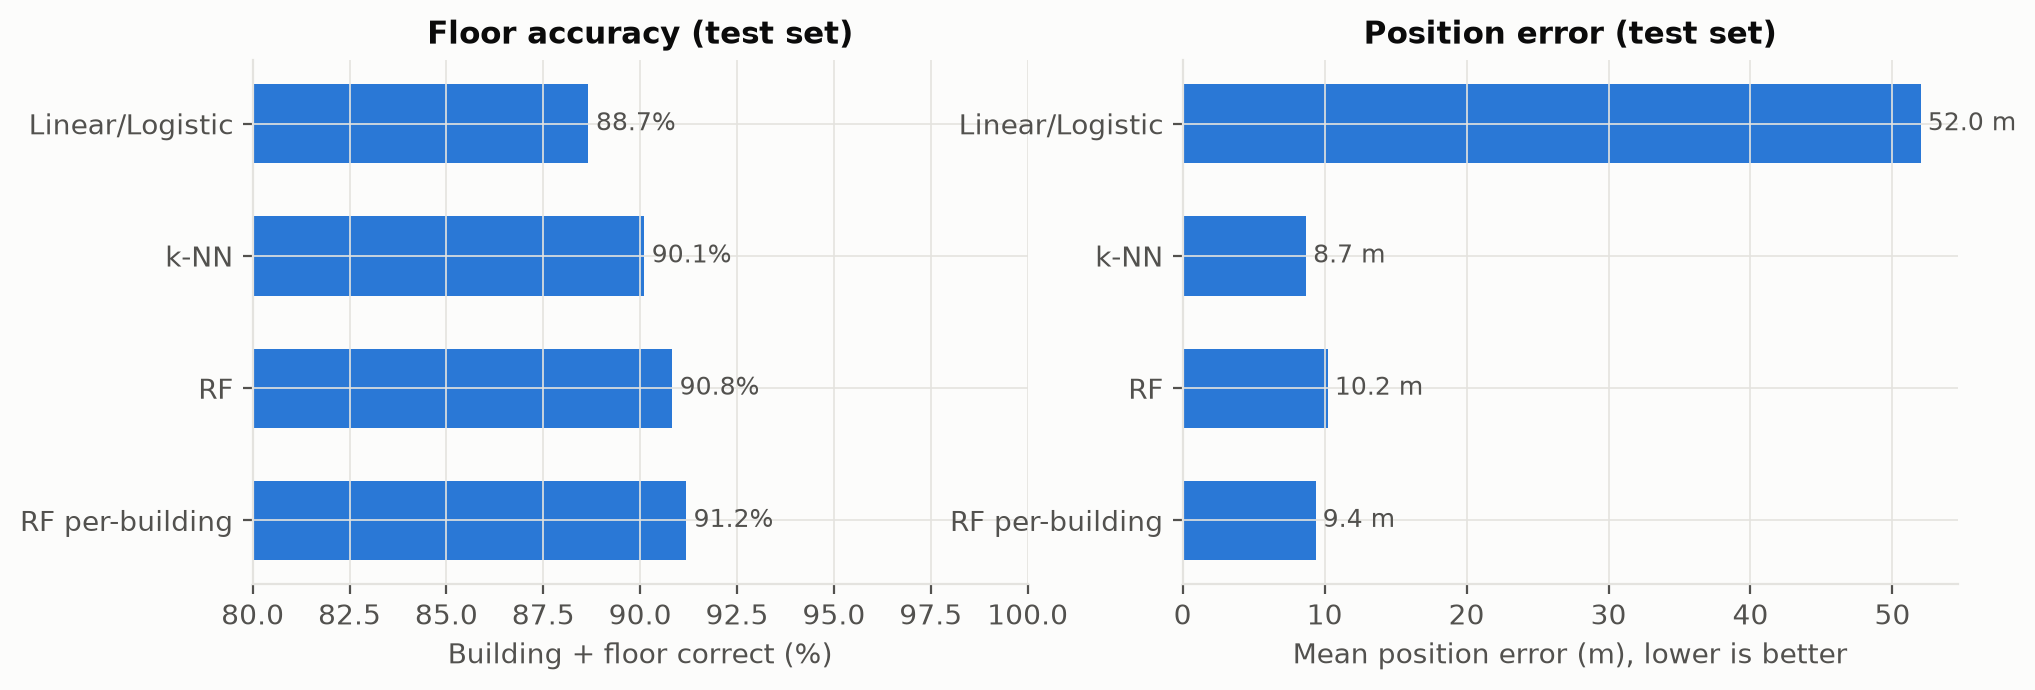
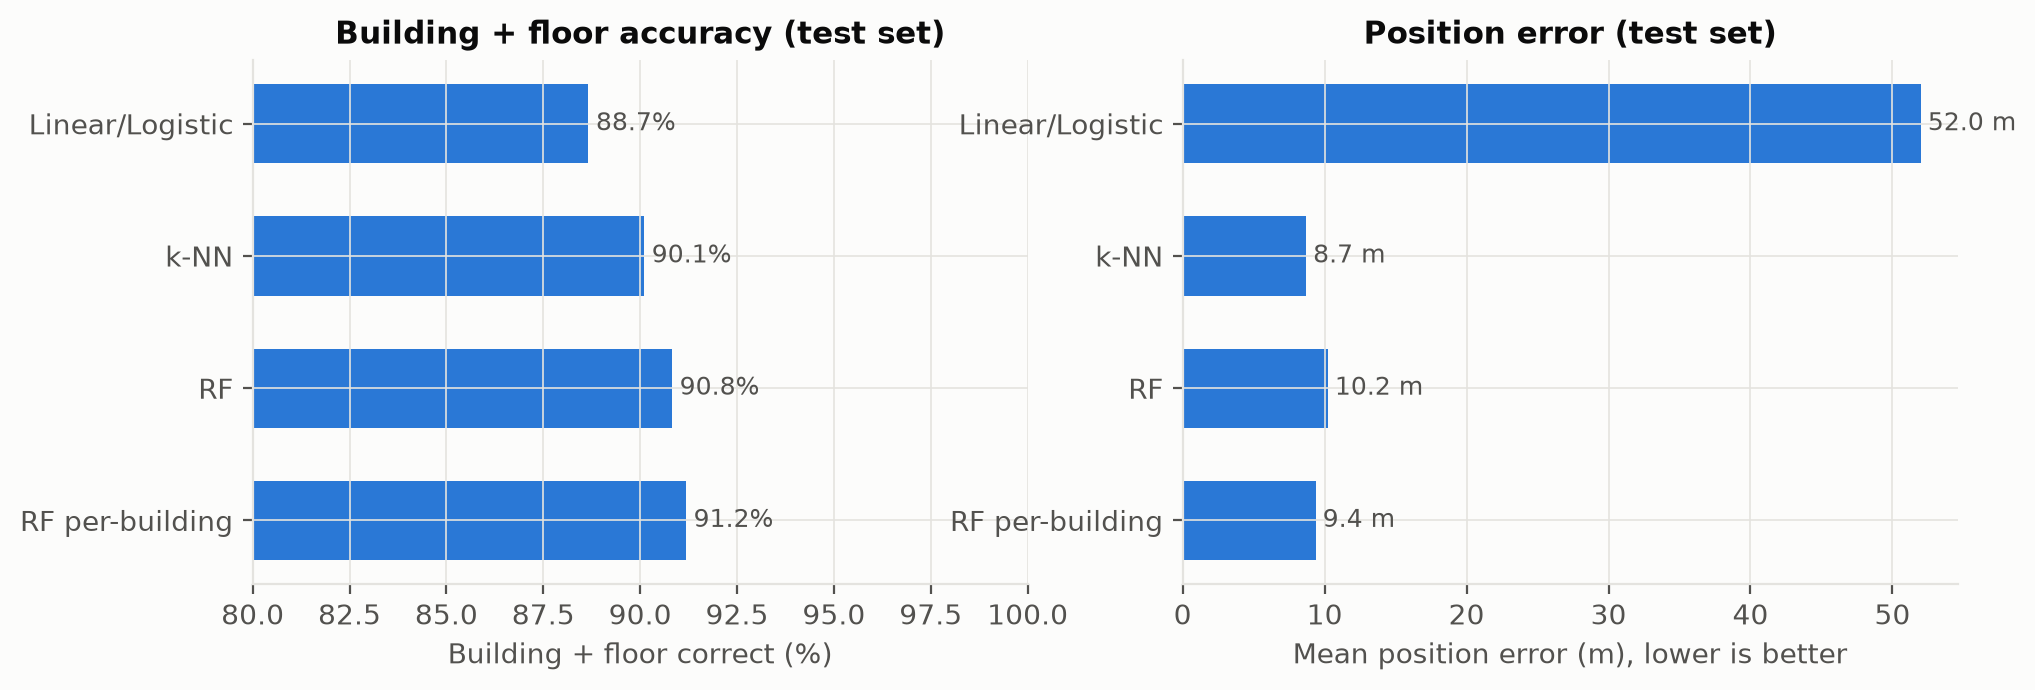
Address review round 1: correct the results notes against the figures, fix the comparison chart title
The left panel of the comparison chart plots building and floor correct
together, so it is titled that way now, in the Phase 1 script too, and both
figures are redrawn from the result files.

Changed region(s): [[0.1548, 0.0304, 0.4644, 0.0913]]

diff --git a/scripts/run_dl_analysis.py b/scripts/run_dl_analysis.py
@@ -111,7 +111,7 @@ for i, v in enumerate(cmp.building_floor_acc * 100):
 axes[0].set_xlim(80, 100)
 axes[0].set_xlabel("Building + floor correct (%)")
 axes[0].invert_yaxis()
-axes[0].set_title("Floor accuracy (test set)")
+axes[0].set_title("Building + floor accuracy (test set)")
 axes[1].barh(labels, cmp.mean_error_m, color=SERIES[0], height=0.6)
 for i, v in enumerate(cmp.mean_error_m):
     axes[1].text(v + 0.6, i, f"{v:.1f} m", va="center", color=INK_2, fontsize=9)

diff --git a/scripts/run_experiments.py b/scripts/run_experiments.py
@@ -180,7 +180,7 @@ for i, v in enumerate(f.building_floor_acc * 100):
 axes[0].set_xlim(80, 100)
 axes[0].set_xlabel("Building + floor correct (%)")
 axes[0].invert_yaxis()
-axes[0].set_title("Floor accuracy (test set)")
+axes[0].set_title("Building + floor accuracy (test set)")
 axes[1].barh(labels, f.mean_error_m, color=SERIES[0], height=0.6)
 for i, v in enumerate(f.mean_error_m):
     axes[1].text(v + 0.5, i, f"{v:.1f} m", va="center", color=INK_2, fontsize=9)

diff --git a/docs/dl_results.md b/docs/dl_results.md
@@ -14,7 +14,7 @@ The table below is from `results/aml_vs_dl.csv` and `results/dl_test_metrics.csv
 | Random Forest (per-building) | 0.998 | 0.913 | 6.19 | 5.77 | 9.37 | 7.07 | 23.31 |
 | Multitask MLP | 1.000 | 0.923 | 5.99 | 5.12 | 8.66 | 6.88 | 20.77 |
 
-The network reaches 100% building accuracy, matching Linear/Logistic and improving on the two forests (99.8%). Floor accuracy is 92.3%, which is the best of all five models; the nearest competitor is RF per-building at 91.3%. Mean position error is 8.66 m. That is better than both forests (10.22 m and 9.37 m) and almost equal to k-NN (8.69 m). The median and p95 both improve: median goes from 7.07 m (best Phase 1) to 6.88 m, and p95 drops from 23.31 m to 20.77 m. The one place the network does not stand out is the tight race with k-NN on mean error; the gap is 0.03 m, which is smaller than the variation between runs.
+The network reaches 100% building accuracy, matching Linear/Logistic and improving on the two forests (99.8%). Floor accuracy is 92.3%, which is the best of all five models; the nearest competitor is RF per-building at 91.3%. Mean position error is 8.66 m. That is better than both forests (10.22 m and 9.37 m) and almost equal to k-NN (8.69 m). Against the forests, the median and p95 both improve: median 7.07 m to 6.88 m, p95 23.31 m to 20.77 m. Against k-NN the picture is mixed: k-NN keeps the best median of all five models (5.35 m against 6.88 m) and the lower MAE in longitude (5.80 m against 5.99 m), while the network has the lower MAE in latitude and the much smaller tail (p95 20.77 m against 26.99 m). The 0.03 m gap in mean error is a tie under the project rule (differences under 0.1 m or one percentage point are a tie, see `docs/dl_architecture.md`).
 
 ## 2. Floor confusion matrices
 
@@ -46,7 +46,7 @@ F2  [   0    4  161    0 ]
 F3  [   0    0    5   80 ]
 ```
 
-Building 0 is well-separated in both models. The network is slightly weaker here (95.9% vs 97.6%), with a few more floor 0 to floor 1 errors (5 vs 1) and floor 3 to floor 2 errors (5 vs 2).
+Building 0 is well-separated in both models. The network is slightly weaker here (95.9% vs 97.6%), with a few more true floor 1 scans predicted as floor 0 (5 vs 1) and floor 3 predicted as floor 2 (5 vs 2).
 
 ### Building 1
 
@@ -74,7 +74,7 @@ F2  [   0    1   83    3 ]
 F3  [   0    0    3   44 ]
 ```
 
-Building 1 was Phase 1's weak spot at 79.8%, and the single biggest error was 43 scans on true floor 1 predicted as floor 2. The network improves building 1 accuracy to 84.7%. That same cell drops from 43 to 29 misclassifications. Floor 0 recognition also improves (22 to 23 correct). The improvement is real: Building 1 is the one place the network makes a clear gain over the forest.
+Building 1 was Phase 1's weak spot at 79.8%, and the single biggest error was 43 scans on true floor 1 predicted as floor 2. The network improves building 1 accuracy to 84.7%. That same cell drops from 43 to 29 misclassifications. Floor 0 recognition also improves (22 to 23 correct). This is the largest gain the network makes over the forest.
 
 ### Building 2
 
@@ -136,19 +136,19 @@ From `results/dl_breakdown_phone.csv` and `results/breakdown_phone_rf.csv`.
 | 20 | 213 | 13.24 | 11.61 | 0.892 | 0.892 |
 | 21 | 60 | 12.29 | 10.49 | 0.967 | 0.967 |
 
-The best phone is phone 9 (MLP 6.65 m, RF 6.23 m) and the worst is phone 14 (MLP 15.19 m, RF 16.32 m). Phone 14 is hard for both models; the network does slightly better there. Phone 20 is the second-hardest and the network closes that gap too (13.24 m to 11.61 m). The network underperforms the forest on phones 2 (10.13 vs 9.77 m) and 5 (10.40 vs 8.94 m). Phone 5 has only 17 test scans, so this may be noise. Overall the spread across phones (6.65 m to 15.19 m) is similar to Phase 1 (6.23 m to 16.32 m), so the network is not noticeably more or less sensitive to the phone model than the forest is.
+The best phone is phone 9 (MLP 6.66 m, RF 6.23 m) and the worst is phone 14 (MLP 15.19 m, RF 16.32 m). Phone 14 is hard for both models; the network does slightly better there. Phone 20 is the second-hardest and the network closes that gap too (13.24 m to 11.61 m). The network is behind the forest on five phones: 2 (10.13 vs 9.77 m), 4 (7.27 vs 7.18 m), 5 (10.40 vs 8.94 m), 9 (6.66 vs 6.23 m) and 15 (7.92 vs 7.72 m); apart from phone 5, which has only 17 test scans, these gaps are under 0.5 m. Overall the spread across phones (6.66 m to 15.19 m) is similar to Phase 1 (6.23 m to 16.32 m), so the network is not noticeably more or less sensitive to the phone model than the forest is.
 
 ## 5. Error map and training curve
 
 ### Error map (`results/figures/dl_error_map.png`)
 
-The map shows test scan positions coloured by error, capped at 30 m. Most dots are light blue, meaning errors under 10 m. The largest errors (grey lines) are scattered across all three buildings with no single tight cluster. A few are near building boundaries, which is expected for any model that can confuse signals from adjacent buildings. The worst cases show the prediction landing in a completely different part of the campus. This pattern matches `error_map_rf.png`, where the same boundary regions caused the biggest jumps. The network's error map is visibly sparser in dark red dots, consistent with the lower mean and p95.
+The map shows test scan positions coloured by error, capped at 30 m. Most dots are light blue, meaning errors under 10 m. The largest errors (grey lines) are scattered across all three buildings with no single tight cluster. A few are near building boundaries, which is expected for any model that can confuse signals from adjacent buildings. Because the building is right for every test scan, every grey line stays inside its own building; the worst cases are predictions on the wrong floor or at the wrong end of a corridor, not in another building. In `error_map_rf.png` the two building-wrong scans show as lines that cross the campus. The network's map has fewer dark blue dots (errors near or above 30 m), consistent with the lower mean and p95.
 
 ### Training curve (`results/figures/dl_training_curve.png`)
 
-The network trained for 108 epochs before early stopping triggered, out of a maximum of 300. The train and validation losses fall together for the first 50 or so epochs, then the validation loss flattens while the train loss keeps decreasing slowly. The two curves do not diverge badly; there is a small gap by epoch 108 but nothing that looks like serious overfitting. Early stopping restored the best validation weights, so the prediction uses the network at the point where the gap started to widen. The plateau on the validation curve is what stops training, not a rising validation loss, which means the model had largely converged before the patience counter ran out.
+The network trained for 108 epochs before early stopping triggered, out of a maximum of 300. Both losses drop steeply in the first five epochs and are nearly flat after about epoch 10, with only a slow drift down after that. The validation loss sits below the training loss for the whole run; that is normal with dropout, because dropout is active when the training loss is measured and off when the validation loss is measured. The two curves never diverge, so there is no sign of overfitting. Training stopped because the validation loss had not improved by more than the minimum step for 30 epochs (patience 30), so the best epoch was 78, and early stopping restored the weights from that epoch.
 
 ## 6. What changed from Phase 1 to Phase 2
 
-The main gain is floor accuracy: 91.3% (RF per-building) to 92.3% (MLP). The biggest single improvement is Building 1, where the forest's most common mistake (43 floor 1 predicted as floor 2) fell to 29 with the network. Position error also improved modestly: 9.37 m down to 8.66 m on average, and the tail (p95) dropped by about 2.5 m. The shared trunk is the likely reason: by learning building, floor, and position together, the trunk can pick up signal patterns that help all three. The forest trains three separate problems and cannot share what it learns about floor geometry with the position prediction. The network's one clear weakness is that it needs more than a minute to train from scratch; the forest takes under 4 seconds.
+The main gain is floor accuracy: 91.3% (RF per-building) to 92.3% (MLP). The biggest single improvement is Building 1, where the forest's most common mistake (43 floor 1 predicted as floor 2) fell to 29 with the network. Position error also improved modestly: 9.37 m down to 8.66 m on average, and the tail (p95) dropped by about 2.5 m. The shared trunk is the likely reason: by learning building, floor, and position together, the trunk can pick up signal patterns that help all three. The forest trains three separate problems and cannot share what it learns about floor geometry with the position prediction. The network's cost is training time: it needs 108 epochs through the training set, while the forest fits in under 4 seconds (`fit_seconds` in `results/test_metrics.csv`).
 
